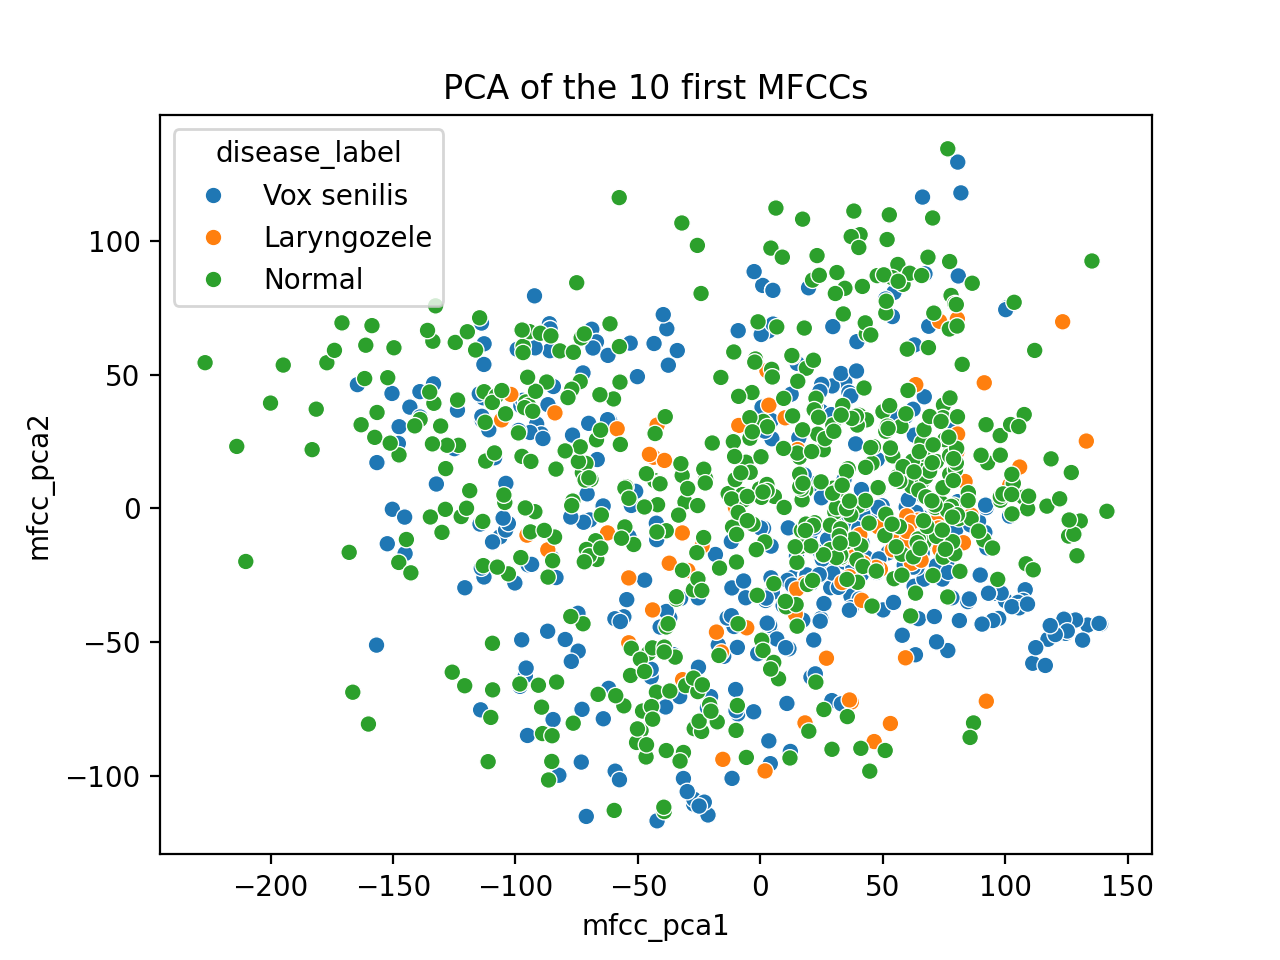
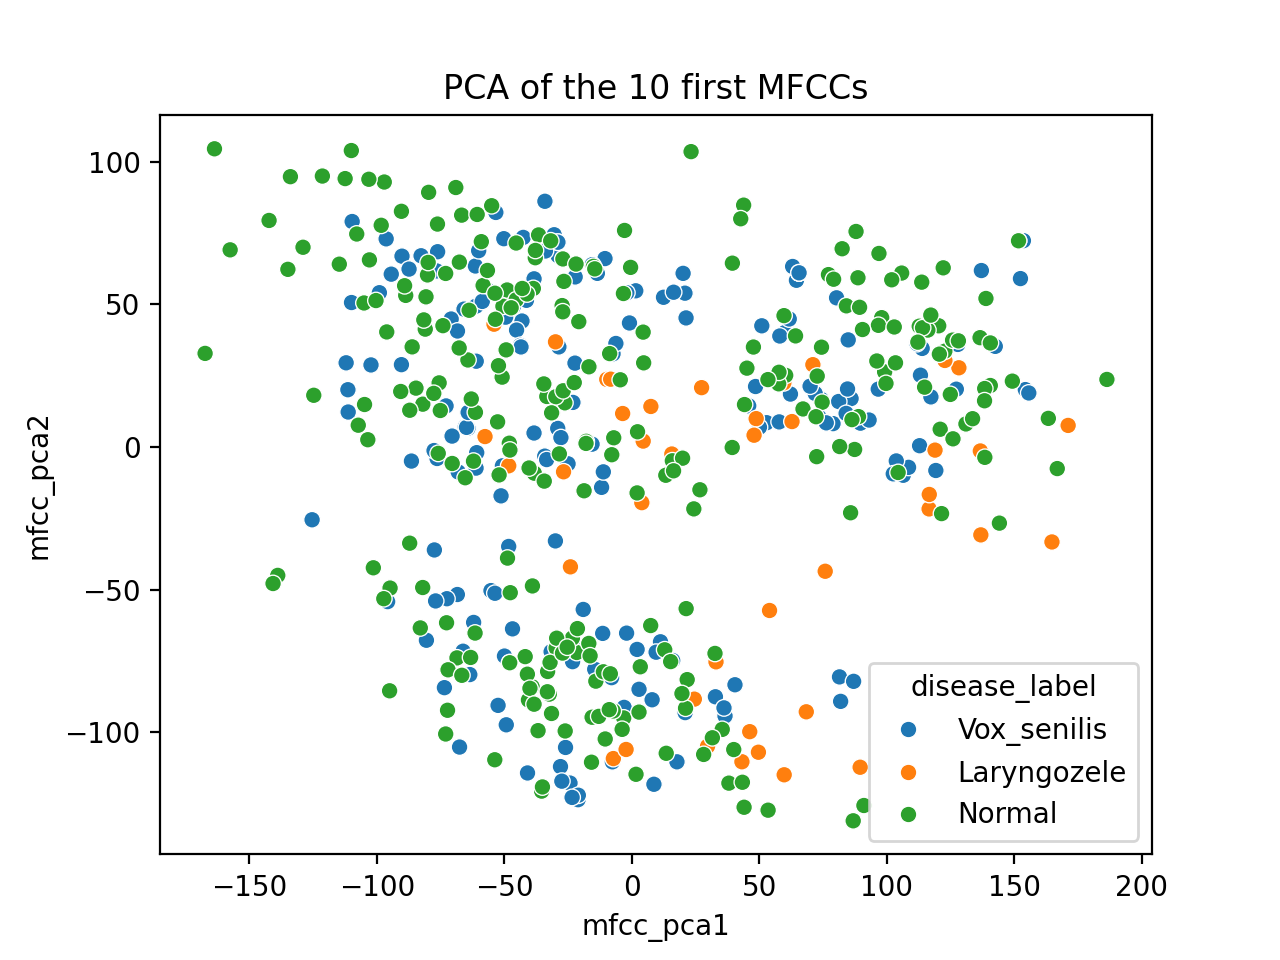
add and update plots

diff --git a/code/data_exploration/mfcc_tSNE.py b/code/data_exploration/mfcc_tSNE.py
@@ -1,0 +1,38 @@
+from pathlib import Path
+import pandas as pd
+import seaborn as sns
+from matplotlib import pyplot as plt
+from sklearn.manifold import TSNE
+
+root = Path("../..").resolve()
+data_path = root / "data/processed/10mfcc_mean.csv"
+
+voice_df = pd.read_csv(data_path, index_col=0)
+mfcc_df = voice_df.drop(columns=["patient_number", "disease_label", "file_name", "sound_type", "is_egg"])
+
+tsne = TSNE(n_components=2, perplexity=30, random_state=42)
+mfcc_tsne = tsne.fit_transform(mfcc_df)
+
+mfcc_tsne_wide_df = pd.DataFrame({
+    "mfcc_tsne1": mfcc_tsne[:, 0],
+    "mfcc_tsne2": mfcc_tsne[:, 1],
+    "disease_label": voice_df["disease_label"],
+    "patient_number": voice_df["patient_number"],
+    "sound_type": voice_df["sound_type"]
+})
+
+# Make plots and save in plots folder
+plot = sns.scatterplot(data=mfcc_tsne_wide_df, x="mfcc_tsne1", y="mfcc_tsne2", hue="disease_label")\
+    .set_title(label="t-SNE of the 10 first MFCCs")
+plt.savefig(root / "plots/data_exploration/mfcc_tsne_disease.png", dpi=200)
+plt.clf()
+
+plot2 = sns.scatterplot(data=mfcc_tsne_wide_df, x="mfcc_tsne1", y="mfcc_tsne2", hue="patient_number", palette="deep")\
+    .set_title(label="t-SNE of the 10 first MFCCs")
+plt.savefig(root / "plots/data_exploration/mfcc_tsne_patient.png", dpi=200)
+plt.clf()
+
+plot = sns.scatterplot(data=mfcc_tsne_wide_df, x="mfcc_tsne1", y="mfcc_tsne2", hue="sound_type")\
+    .set_title(label="t-SNE of the 10 first MFCCs")
+plt.savefig(root / "plots/data_exploration/mfcc_tsne_sound.png", dpi=200)
+plt.clf()
